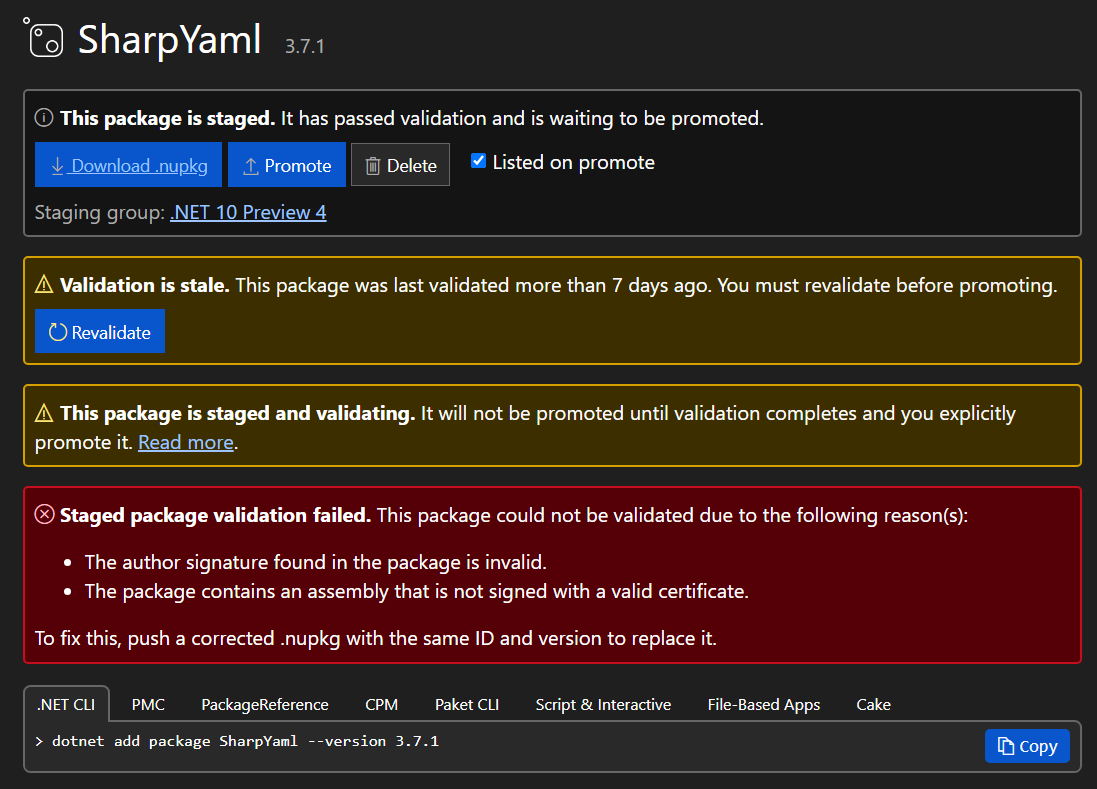
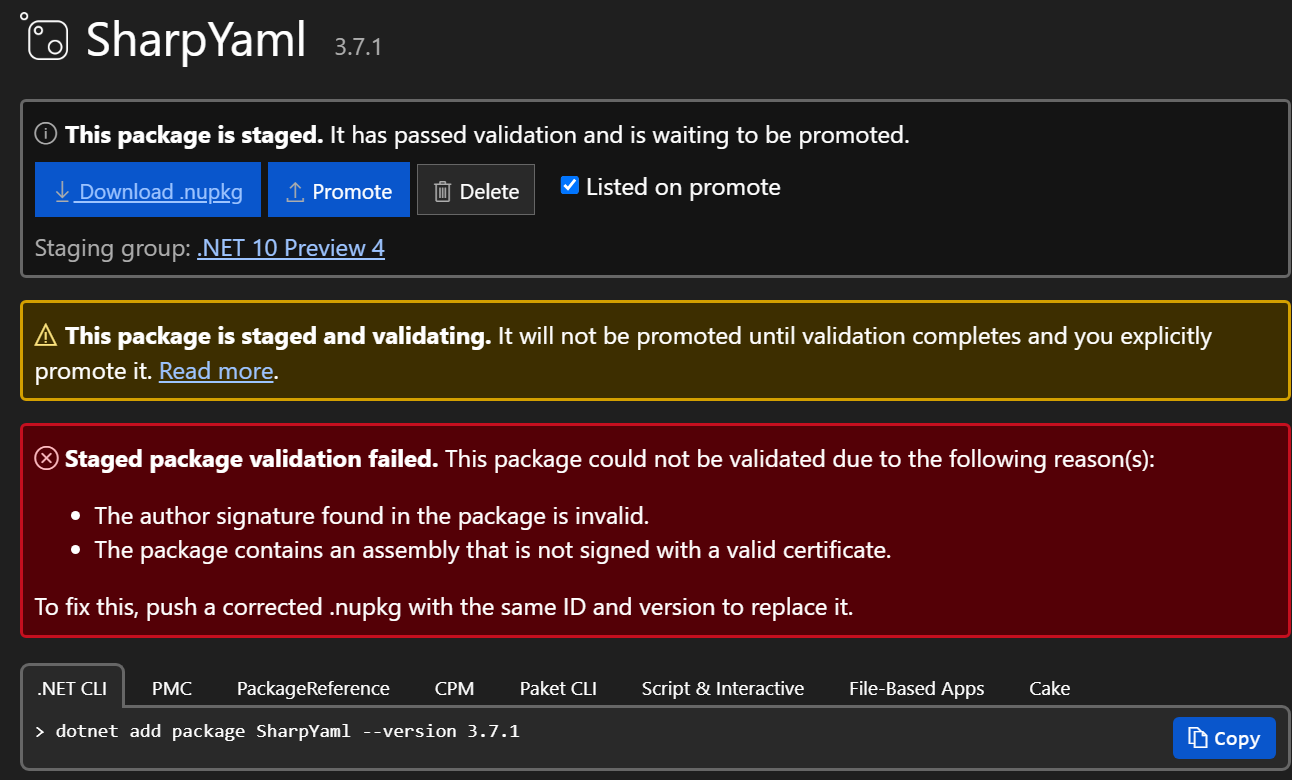
Revise package staging auth and lifecycle

diff --git a/accepted/2026/package-staging.md b/accepted/2026/package-staging.md
@@ -5,7 +5,7 @@
 
 ## Summary
 
-Package staging lets authors push packages to nuget.org ahead of time, run them through full validation (malware scanning, signing), and promote them later with a single action through the Gallery UI. Staged packages are invisible to consumers until promoted. Promotion requires a step-up two-factor authentication challenge (TOTP or WebAuthn) at the moment of action, providing a proof of presence check.
+Package staging lets authors push packages to nuget.org ahead of time, run them through full validation (malware scanning, signing), and promote them later with a single action through the Gallery UI. Staged packages are invisible to consumers until promoted. Promotion requires that the user is logged into nuget.org with two-factor authentication enabled on their account.
 
 This builds on the [2024 Release Staging and Deprecation proposal](../2024/release-staging-and-deprecation.md) with a narrower scope focused on staging and promotion, informed by direct feedback from the .NET release team and security requirements around supply chain protection.
 
@@ -13,7 +13,7 @@ This builds on the [2024 Release Staging and Deprecation proposal](../2024/relea
 
 ### Supply chain protection
 
-If a CI/CD pipeline is compromised or credentials leak, an attacker can push malicious packages to nuget.org today. Staging introduces a separation between pushing and promoting. CI/CD can only stage packages. A human must log into nuget.org and complete a step-up 2FA challenge to promote them. Even if an attacker compromises a build pipeline, they can only stage invisible packages that never reach consumers.
+If a CI/CD pipeline is compromised or credentials leak, an attacker can push malicious packages to nuget.org today. Staging introduces a separation between pushing and promoting. CI/CD can only stage packages. A human must log into nuget.org with 2FA enabled to promote them. Even if an attacker compromises a build pipeline, they can only stage invisible packages that never reach consumers.
 
 Staging is entirely opt-in. The existing `dotnet nuget push` command and push API continue to work exactly as they do today, including for older SDK versions. Staging uses a separate endpoint (`dotnet nuget stage push`) that is only available in newer SDKs. The two paths are independent.
 
@@ -42,8 +42,6 @@ flowchart LR
     Push["Stage Push"] --> Validation
     Validation -->|success| Staged
     Validation -->|failure| FailedValidation
-    Staged -->|stale after N days| Stale
-    Stale -->|revalidate| Validation
     Staged -->|promote via Gallery| Available
     Available --> V3["V3 Pipeline"]
 ```
@@ -56,7 +54,7 @@ If validation fails, the author is notified the same way as a normal push failur
 
 Re-pushing the same content is a no-op (safe for CI/CD retries). Pushing different content for the same ID and version replaces the staged package, re-runs validation, and resets the expiration timer. Replacing a grouped package keeps its group membership.
 
-Symbol packages (`.snupkg`) can also be staged. The parent `.nupkg` must already be staged or validating. Symbol validation and ingestion are deferred until promotion.
+Symbol packages (`.snupkg`) can also be staged. The parent `.nupkg` must already be staged or validating. Symbol validation runs at stage time so failures are caught early. Symbol ingestion is deferred until promotion so symbols are not publicly available before the parent package.
 
 Staging the first version of a new package ID reserves the ID permanently, same as a normal push. If that staged version is later deleted or expires, the ID remains reserved.
 
@@ -64,14 +62,6 @@ The Upload page also supports staging via a Publishing Mode option:
 
 ![Upload Package - Publishing Mode](images/upload-package.png)
 *Figure 1. Upload Package page with Publishing Mode selector.*
-
-#### Revalidation
-
-Validation results go stale over time. Malware signature databases update daily and certificate revocation status can change. A package that passed validation weeks ago may no longer be clean.
-
-After a configurable staleness window (default: 7 days), the package transitions to a "Stale" state in the UI. Stale packages cannot be promoted until the owner triggers revalidation. Only external-state checks rerun: certificate revocation and malware scanning. Content-only checks (signature structure, package format) are skipped since the bytes have not changed.
-
-Owners receive email notifications when packages go stale.
 
 #### Staging groups
 
@@ -98,19 +88,19 @@ Group display names can be edited after creation. Group IDs are immutable.
 
 ##### Group detail
 
-The group detail view shows every package in the group along with its current validation status. Owners can revalidate stale or failed packages, edit the group display name, and promote the entire group when all packages are ready.
+The group detail view shows every package in the group along with its current validation status. Owners can edit the group display name and promote the entire group when all packages are ready.
 
 ![Staging Group Detail](images/staging-groups.png)
 
-*Figure 3. Staging group detail view with validation status, revalidation controls, and group metadata.*
+*Figure 3. Staging group detail view with validation status and group metadata.*
 
 #### Promotion
 
 Promotion is only available through the nuget.org Gallery UI. There is no API endpoint for promoting staged packages. This is intentional.
 
-When a user clicks "Promote" on a staged package or group, the Gallery presents a step-up 2FA challenge (TOTP code entry or WebAuthn/passkey tap). This is not the session-level 2FA from login; it is a fresh challenge at the moment of action, similar to npm's publish confirmation and GitHub's sudo mode. The challenge result is valid for 5 minutes, so promoting multiple packages in quick succession does not require repeated challenges.
+When a user clicks "Promote" on a staged package or group, the user must be logged into nuget.org with two-factor authentication enabled on their account.
 
-For groups, the owner promotes the entire group at once. If any package in the group is still validating, failed validation, or stale, the group cannot be promoted until the issue is resolved.
+For groups, the owner promotes the entire group at once. If any package in the group is still validating or failed validation, the group cannot be promoted until the issue is resolved.
 
 After promotion, the packages enter the normal V3 pipeline and become restorable through the standard process. The public "published" timestamp is set at promotion time, not at stage time.
 
@@ -166,7 +156,6 @@ Deprecation, unlisting, and other metadata edits are not available while a packa
 - Email when a package or group is promoted
 - Email 7 days before expiration
 - Email when a group or package is deleted due to expiration
-- Email when packages go stale and need revalidation
 
 All notifications are aggregated into a single digest per owner per event. A group promotion with 2000 packages sends one email, not 2000.
 
@@ -179,31 +168,25 @@ Staging push and delete operations share the same quota budget as normal push/un
 - Max 20 staging groups per owner
 - Max 1000 packages per group
 - Configurable total staged packages per owner (default and elevated tiers available)
-- Configurable TTL and staleness window per owner
+- Configurable TTL per owner
 
 ## Drawbacks
 
-- **Promotion is not automatable.** Requiring Gallery UI login with step-up 2FA means promotion cannot be scripted or run from CI/CD. This is intentional for security but adds a manual step to release workflows. Someone has to log in and complete a 2FA challenge on release day.
+- **Promotion is not automatable.** Requiring Gallery UI login with 2FA means promotion cannot be scripted or run from CI/CD. This is intentional for security but adds a manual step to release workflows. Someone has to log in on release day.
 
 - **No atomic promotion.** We are not guaranteeing that all packages in a group become restorable at the exact same instant. The V3 pipeline processes packages in batches and there will be a small window (minutes) where some packages are available and others are not. This is the same behavior that exists today when packages trickle through validation. Package authors who need strict ordering should manage dependency sequencing on their side. NuGet restore retries with backoff will naturally resolve transient "not found" errors within minutes.
 
-- **New concepts for users.** Staging, groups, revalidation, and the two-step push/promote workflow add complexity to the NuGet experience. Most package authors who push one or two packages at a time may not need or use this feature.
-
-- **Revalidation adds friction.** If packages sit staged for a while, owners must revalidate before promoting. This is an intentional security tradeoff: accepting a small amount of friction to ensure validation results are fresh at promotion time.
+- **New concepts for users.** Staging, groups, and the two-step push/promote workflow add complexity to the NuGet experience. Most package authors who push one or two packages at a time may not need or use this feature.
 
 ## Rationale and alternatives
 
 ### Why Gallery-only promotion
 
-The core security insight is that CI/CD systems are attack surfaces. API keys can leak. OIDC-configured GitHub Actions can be compromised. If an attacker gains the ability to push packages, they can push malicious packages today. Staging with Gallery-only promotion creates a hard boundary: even with full CI/CD compromise, the attacker can only create invisible staged packages. A human with step-up 2FA must approve promotion.
-
-### Why step-up 2FA at promotion
-
-Session-level 2FA (at login) is not sufficient. If someone walks away from their laptop, or if an attacker has browser session access, they could promote without re-authenticating. The step-up challenge at the moment of promotion ensures proof of presence at the exact time of action, not just at session start. This follows the same pattern as npm's publish confirmation and GitHub's sudo mode.
+The core security insight is that CI/CD systems are attack surfaces. API keys can leak. OIDC-configured GitHub Actions can be compromised. If an attacker gains the ability to push packages, they can push malicious packages today. Staging with Gallery-only promotion creates a hard boundary: even with full CI/CD compromise, the attacker can only create invisible staged packages. A human logged in with 2FA must approve promotion.
 
 ### Why not scheduled promotion
 
-Automatically promoting at a specific date/time was considered but rejected for the initial release. Scheduled promotion would bypass the proof of presence requirement. It also introduces complexity around time zones, failure handling, and what happens if the schedule fires during an outage. Teams can achieve a similar result by staging ahead of time and manually promoting when ready.
+Automatically promoting at a specific date/time was considered but rejected for the initial release. Scheduled promotion would bypass the human-in-the-loop requirement. It also introduces complexity around time zones, failure handling, and what happens if the schedule fires during an outage. Teams can achieve a similar result by staging ahead of time and manually promoting when ready.
 
 ## Prior Art
 
@@ -212,7 +195,7 @@ Automatically promoting at a specific date/time was considered but rejected for 
 
 ## Future Possibilities
 
-- **Proof of presence for CLI.** If nuget.org adds step-up 2FA support for CLI operations in the future, promotion could be extended to the CLI with a real-time authentication challenge.
-- **Mandatory staging for high-impact packages.** The 2FA-at-promote gate only protects packages that opt into staging. A future enhancement could require staging for packages above a download threshold or allow owners to mark a package ID as "staging required."
+- **Step-up 2FA at promotion.** A future enhancement could require a fresh 2FA challenge at the moment of promotion (similar to npm's publish confirmation and GitHub's sudo mode), providing stronger proof of presence beyond the login session.
+- **Mandatory staging for high-impact packages.** The login-2FA gate only protects packages that opt into staging. A future enhancement could require staging for packages above a download threshold or allow owners to mark a package ID as "staging required."
 - **Authenticated pre-promote restore.** Allow owners to test-restore a staged group before promoting, verifying that interdependent packages resolve correctly as a set.
 - **Two-person approval.** Require two distinct identities to approve a promotion before it proceeds, providing defense-in-depth against single-account compromise.
